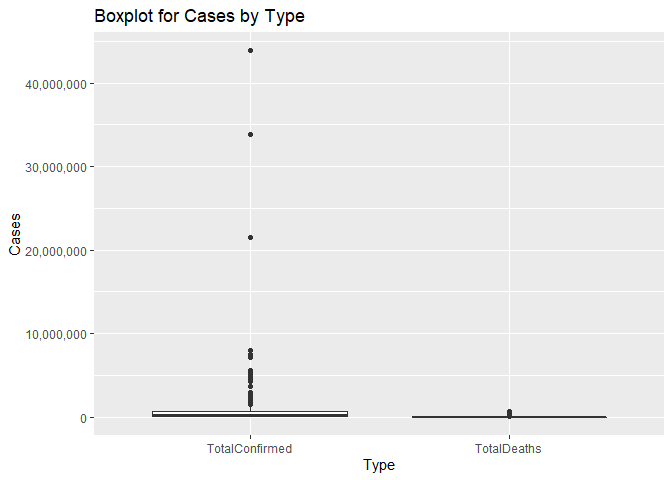
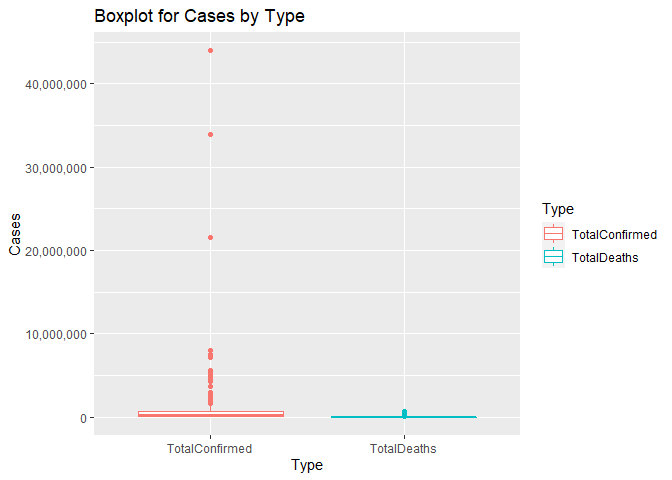
Additional Finishing touches now that the due date is pushed.

diff --git a/README.md b/README.md
@@ -3,8 +3,7 @@ README
 Victoria Seng
 9/21/2021
 
--   [Required Packages (will update if additional are
-    needed)](#required-packages-will-update-if-additional-are-needed)
+-   [Required Packages](#required-packages)
 -   [Functions](#functions)
     -   [`getSummaryGlobal()`](#getsummaryglobal)
     -   [`getSummaryCountries()`](#getsummarycountries)
@@ -19,7 +18,7 @@ Victoria Seng
 -   [Exploratory Data Analysis (EDA)](#exploratory-data-analysis-eda)
 -   [Wrap Up](#wrap-up)
 
-# Required Packages (will update if additional are needed)
+# Required Packages
 
 -   `tidyverse`
 -   `httr`
@@ -43,7 +42,10 @@ Victoria Seng
 
 ## `getSummaryGlobal()`
 
-Grabs the daily summary, which shows total and new cases by case type
+Accesses the
+[Summary](https://documenter.getpostman.com/view/10808728/SzS8rjbc#00030720-fae3-4c72-8aea-ad01ba17adf8)
+endpoint, specifically the global data. Grabs the daily summary, which
+shows total and new cases by case type
 
 ``` r
 getSummaryGlobal <- function(){
@@ -56,7 +58,10 @@ getSummaryGlobal <- function(){
 
 ## `getSummaryCountries()`
 
-Grabs the daily summary by country and case type
+Accesses the
+[Summary](https://documenter.getpostman.com/view/10808728/SzS8rjbc#00030720-fae3-4c72-8aea-ad01ba17adf8)
+endpoint, specifically the by-country data. Grabs the daily summary by
+country and case type
 
 ``` r
 getSummaryCountries <- function(){
@@ -69,8 +74,11 @@ getSummaryCountries <- function(){
 
 ## `getCountries()`
 
-Grabs all country names, slugs, and abbreviations. It is used inside all
-other functions where the user inputs `country` as an argument.
+Accesses the
+[Countries](https://documenter.getpostman.com/view/10808728/SzS8rjbc#7934d316-f751-4914-9909-39f1901caeb8)
+endpoint. Grabs all country names, slugs, and abbreviations. It is used
+inside all other functions where the user inputs `country` as an
+argument.
 
 ``` r
 getCountries <- function(){
@@ -82,9 +90,10 @@ getCountries <- function(){
 
 ## `returnSlug()`
 
-Takes a quoted string and returns the country slug (if available) as a
-character string. Argument can be the name of the country, the slug, or
-the ISO2 abbreviation. Throws a specific error if no match is found.
+A helper function. Takes a quoted string and returns the country slug
+(if available) as a character string. Argument can be the name of the
+country, the slug, or the ISO2 abbreviation. Throws a specific error if
+no match is found.
 
 ``` r
 returnSlug <- function(cntry){
@@ -112,11 +121,11 @@ returnSlug <- function(cntry){
 
 ## `handleTZ()`
 
-This function takes a character string and tries to find a match in
-`OlsonNames()`. If an exact match cannot be found, a partial match is
-searched for. If one is found, it is used, but a warning is thrown. If
-that cannot be found, the function returns a TZ of “UTC” and throws a
-warning.
+A helper function. This function takes a character string and tries to
+find a match in `OlsonNames()`. If an exact match cannot be found, a
+partial match is searched for. If one is found, it is used, but a
+warning is thrown. If that cannot be found, the function returns a TZ of
+“UTC” and throws a warning.
 
 ``` r
 handleTZ <- function(z = "UTC"){
@@ -151,7 +160,8 @@ handleTZ <- function(z = "UTC"){
 
 ## `handleDT()`
 
-this takes a date string and gives it back in the correct format
+A helper function. This takes a date string and gives it back in the
+correct format
 
 ``` r
 handleDT <- function(date, z){
@@ -184,9 +194,11 @@ handleDT <- function(date, z){
 
 ## `getDayOneLive()`
 
-This endpoint returns all cases of the specified case type for the
-specified country from its first recorded case to present (updated every
-10 minutes.)
+Accesses the [Get Day One
+Live](https://documenter.getpostman.com/view/10808728/SzS8rjbc#81447902-b68a-4e79-9df9-1b371905e9fa)
+endpoint. This endpoint returns all cases of the specified case type for
+the specified country from its first recorded case to present (updated
+every 10 minutes.)
 
 Its arguments are `country` and `caseType`.
 
@@ -204,8 +216,10 @@ getDayOneLive <- function(country, caseType){
 
 ## `getCountryLive()`
 
-Takes a country, from datetime string, and optionally a to and time zone
-string and returns cases by date
+Accesses the [By Country
+Live](https://documenter.getpostman.com/view/10808728/SzS8rjbc#c34162be-7c20-418e-9866-a24dca632b3c)
+endpoint. Takes a country, from datetime string, and optionally a to and
+time zone string and returns cases by date
 
 ``` r
 getCountryLive <- function(country, from, to = NULL, z = NULL){
@@ -226,7 +240,9 @@ getCountryLive <- function(country, from, to = NULL, z = NULL){
 
 ## `getLiveCS()`
 
-takes country, case type and returns cases by date
+Accesses the [Live By Country and
+Status](https://documenter.getpostman.com/view/10808728/SzS8rjbc#63fda84a-6b43-4506-9cc7-2172561d5c16)
+endpoint. Takes country, case type and returns cases by date
 
 ``` r
 getLiveCS <- function(country, caseType){
@@ -245,7 +261,10 @@ getLiveCS <- function(country, caseType){
 
 ## `getLiveCAS()`
 
-takes country name and returns live cases for all casetypes by date
+Accesses the [Live by Country All
+Status](https://documenter.getpostman.com/view/10808728/SzS8rjbc#c4b075a4-83b2-4a98-9db9-b3be51fa6bef)
+endpoint. Takes country name and returns live cases for all casetypes by
+date.
 
 ``` r
 getLiveCAS <- function(country){
@@ -267,8 +286,8 @@ getLiveCAS <- function(country){
 First, we’ll pull the summary stats by country and look at total
 confirmed cases vs total deaths as a scatter plot. Here, we see what
 we’d expect, that more cases usually means more deaths. There are three
-particularly large country datapoints here, and we can assume that these
-are larger population countries.
+particularly large country data points here, and we can assume that
+these are larger population countries.
 
 ``` r
 summary <- getSummaryCountries()
@@ -286,8 +305,8 @@ df + geom_point(aes(x = TotalConfirmed, y = TotalDeaths)) +
 
 I’d like to look at a contingency table of confirmed versus deaths for
 these countries. To do this, I’m dividing the case numbers into buckets.
-The biggest The largest group of countries in the contingency table have
-between 100K and 1M cases, but fewer than 10K deaths.
+The largest group of countries in the contingency table have between
+100K and 1M cases, but fewer than 10K deaths.
 
 ``` r
 factorLvls <- c("0-1,000", "1,000-9,999", "10,000-99,999", "100,000-999,999", "1,000,000-9,999,999", "Over 10,000,000")
@@ -342,10 +361,10 @@ rows <- nrow(ccWithBrackets)
 
 df <- ggplot(data = ccWithBrackets %>% slice_min(TotalConfirmed, n = (rows-3)))
 
-df + geom_histogram(aes(x = TotalConfirmed), bins = 20) +
+df + geom_histogram(aes(x = TotalConfirmed, fill = TotalConfirmed), bins = 20) +
   theme(axis.text.x = element_text(angle = 270)) +
     scale_x_continuous(labels = scales::comma) +
-      labs(title = "Histogram of Confirmed Cases by COuntry", x = "Case Buckets")
+      labs(title = "Histogram of Confirmed Cases by Country", x = "Case Buckets")
 ```
 
 ![](./images/eda_histogram-1.png)<!-- -->
@@ -363,7 +382,7 @@ summPivot <- summary %>%
       filter(Type %in% c("TotalConfirmed", "TotalDeaths"))
 
 ggplot(summPivot, aes(Type, Cases)) +
-  geom_boxplot() +
+  geom_boxplot(aes(color = Type)) +
     scale_y_continuous(labels = scales::comma) +
       labs(title = "Boxplot for Cases by Type")
 ```
@@ -385,11 +404,11 @@ top3
     ## # A tibble: 3 x 2
     ##   CountryCode TotalConfirmed
     ##   <chr>                <int>
-    ## 1 US                43852255
-    ## 2 IN                33853048
-    ## 3 BR                21478546
+    ## 1 US                43947317
+    ## 2 IN                33871881
+    ## 3 BR                21499074
 
-This very crowded bar chart shows cases versus deaths for the top 3.
+This bar chart shows cases versus deaths for the top 3.
 
 ``` r
 ggplot(summPivot %>% filter(CountryCode %in% c("US", "IN", "BR")), aes(CountryCode)) +
@@ -400,11 +419,12 @@ ggplot(summPivot %>% filter(CountryCode %in% c("US", "IN", "BR")), aes(CountryCo
             scale_fill_brewer(palette = "Set2")
 ```
 
-![](./images/eda_bar_chart-1.png)<!-- --> Here, we have North Carolina
-overall and by country with summary statistics. For counties, we have a
-contingency table to show whether a county’s mean cases are over or
-under the state level. Over half are under. We can assume that a few
-counties are inflating the overall mean.
+![](./images/eda_bar_chart-1.png)<!-- -->
+
+Here, we have North Carolina overall and by country with summary
+statistics. For counties, we have a contingency table to show whether a
+county’s mean cases are over or under the state level. Over half are
+under. We can assume that a few counties are inflating the overall mean.
 
 ``` r
 nc <- unlist(getCountryLive("united-states", "2021-09-24T00:00:00", to = "2021-09-30T00:00:00", z = "UTC") %>%
@@ -450,7 +470,7 @@ cases than Virginia.
 
 ``` r
 ggplot(bothStates, aes(Province, mean)) +
-  geom_boxplot() +
+  geom_boxplot(aes(color = Province)) +
     scale_y_continuous(labels = scales::comma) +
       labs(title = "NC vs VA: Boxplot for Mean Confirmed Cases by County 9/24-9/30")
 ```
@@ -461,4 +481,7 @@ ggplot(bothStates, aes(Province, mean)) +
 
 In summary, I wrote functions to 6 endpoints of the covid19 api and
 demonstrated connecting and summarizing data from a couple of endpoints.
-We learned that population data would help this data set a lot.
+We learned that the US, India and Brazil have the most cases, but that
+without population data, we can’t really tell whether this is due to
+population or pervasiveness. Population data would help this data set a
+lot.
